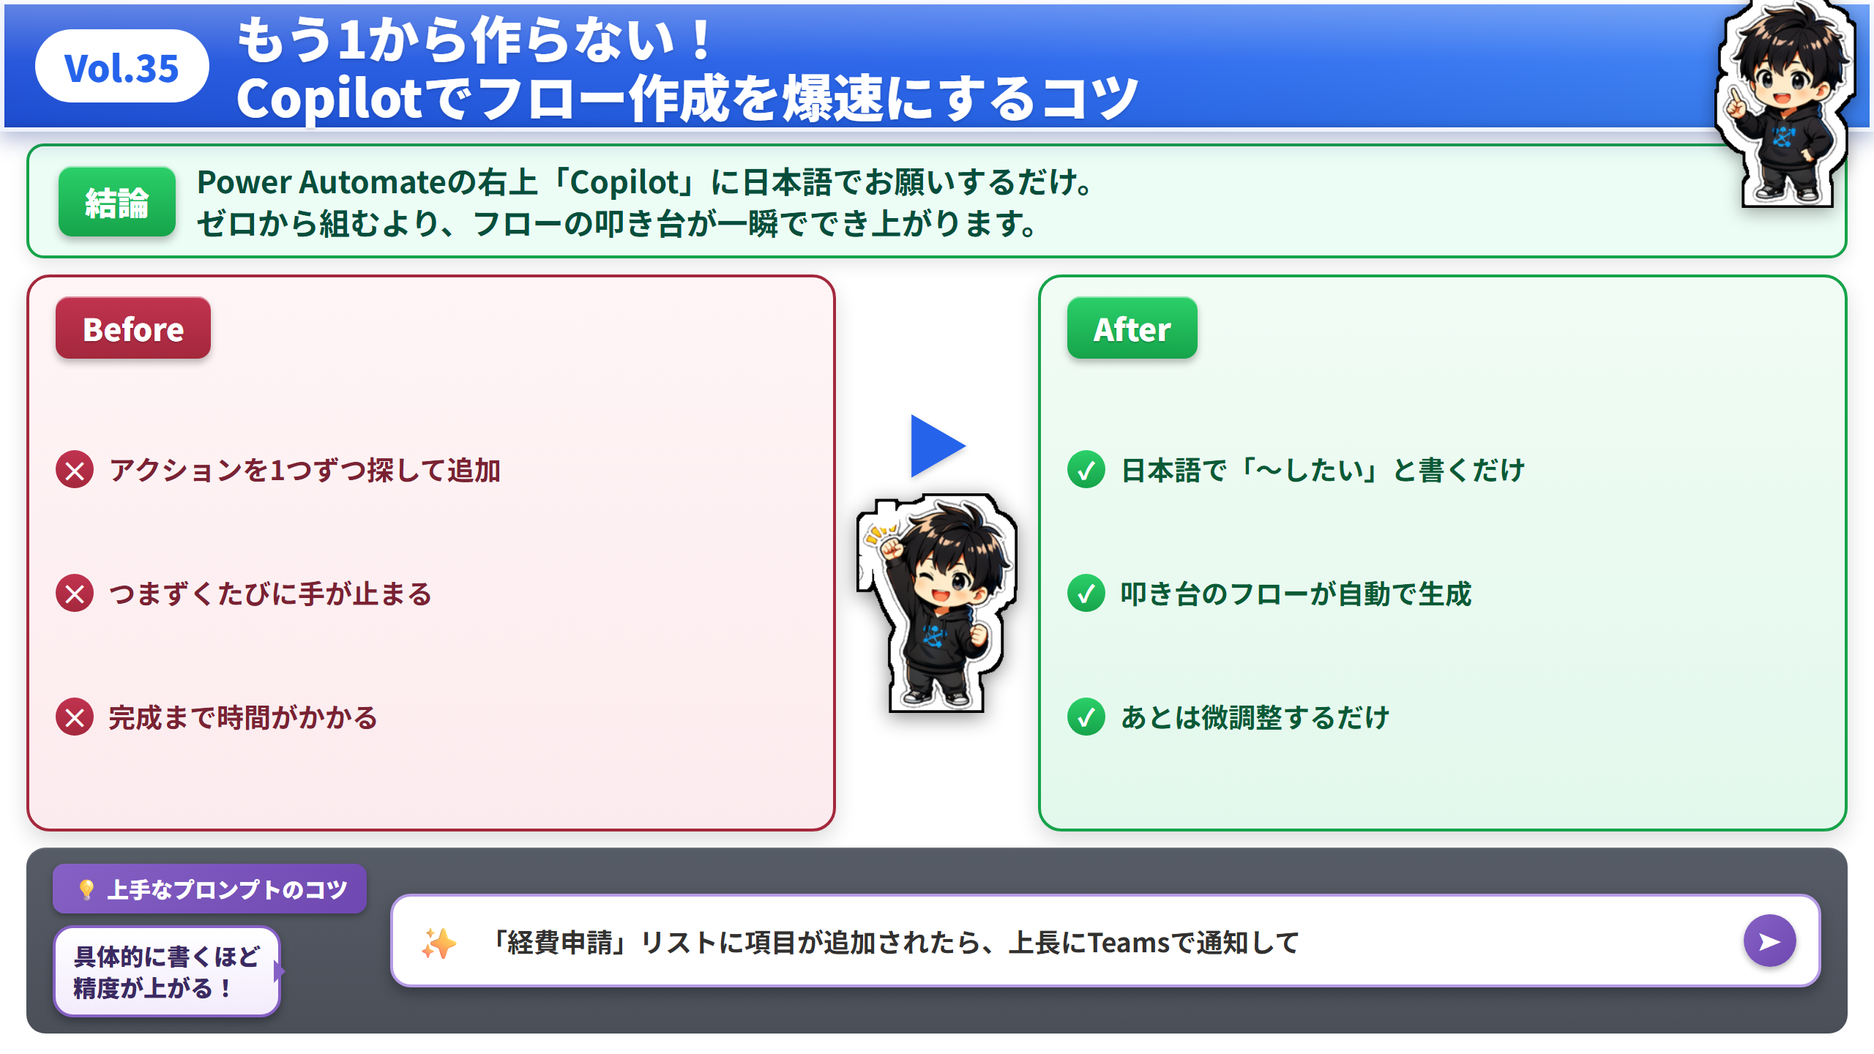
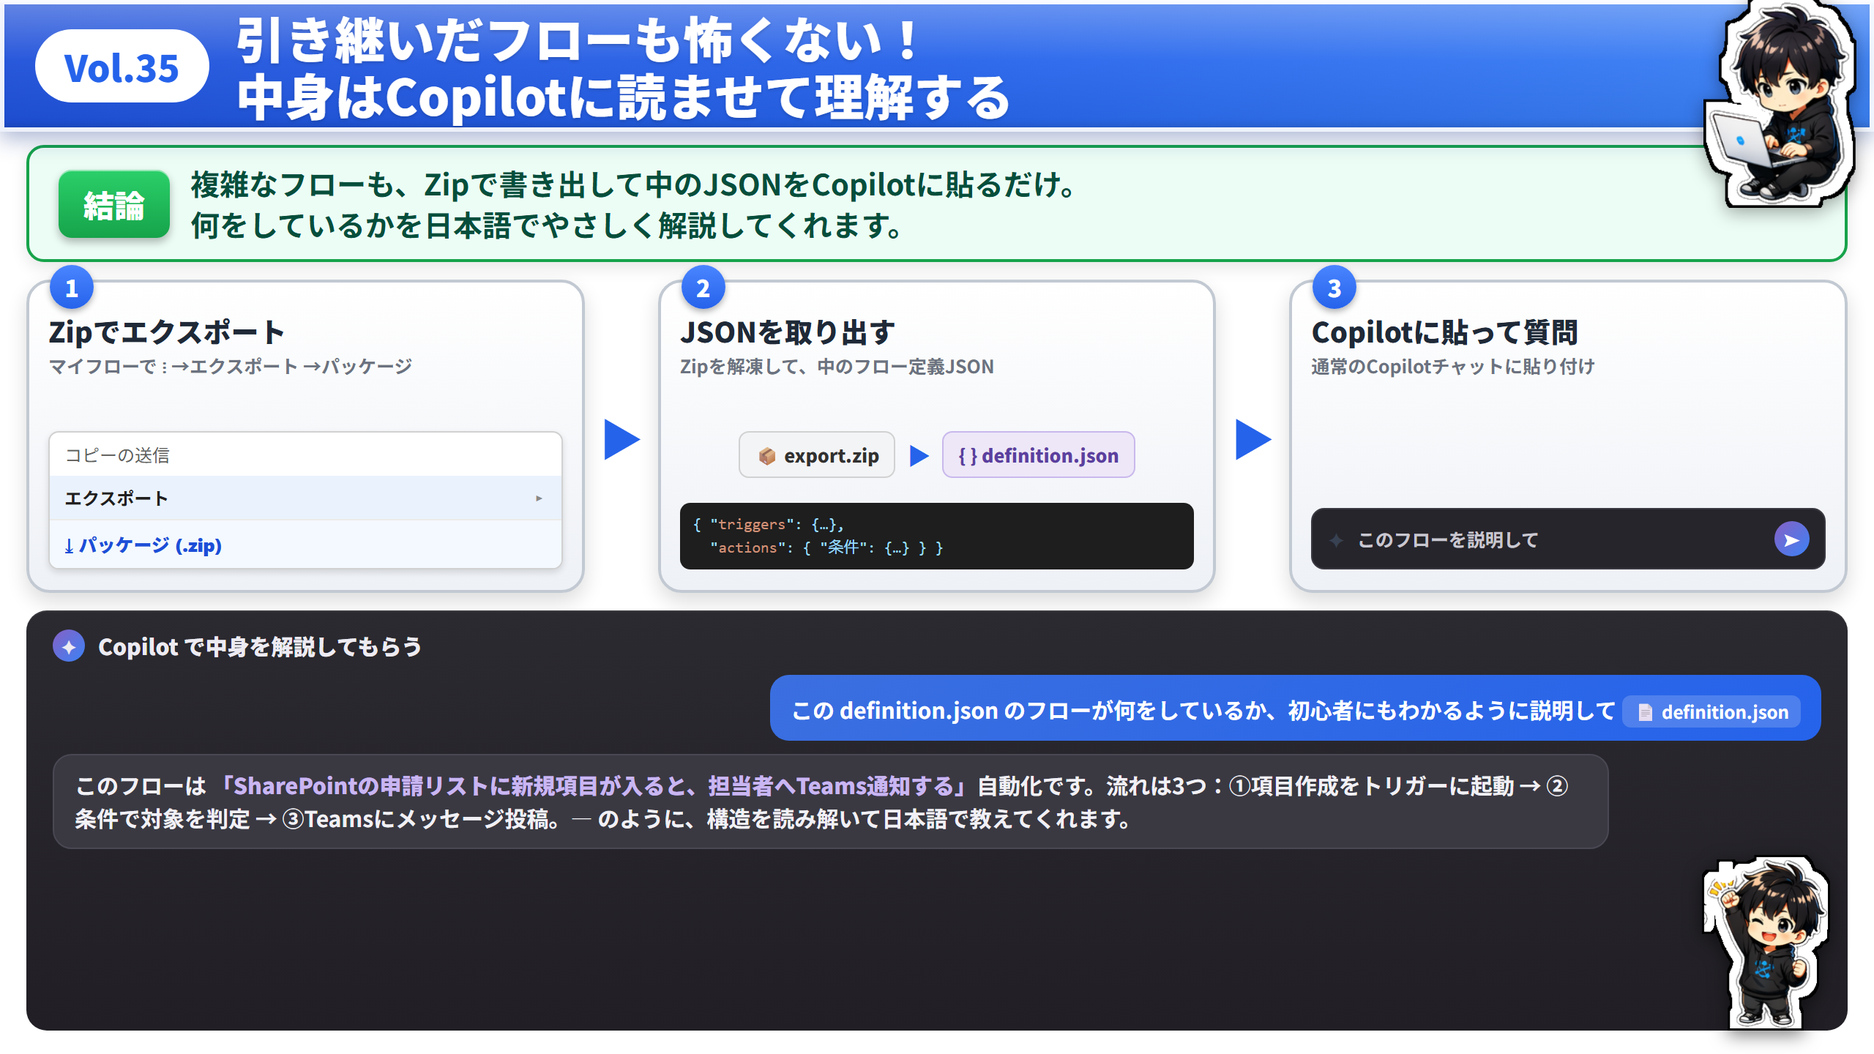
@ Vol.35 改訂: フローの中身をCopilotに解説させる(Zip→JSON→Copilot) ＋ UI部品+2
- vol-35: 手順3ステップ(Zipエクスポート/JSON取得/Copilotに貼る)＋M365 Copilotチャット実画面の再現(definition.json→日本語解説)
- _ui-parts: pa-export-menu / m365-copilot-chat を追加(計23部品)

@

diff --git a/assets/x/html/vol-35/index.html b/assets/x/html/vol-35/index.html
@@ -3,136 +3,130 @@
 <head>
 <meta charset="UTF-8">
 <meta name="viewport" content="width=1280, initial-scale=1">
-<title>X技術Tips HTMLテンプレ（Layout C＝Before/After比較主役）</title>
+<title>Vol.35 Copilotでフローの中身を解説させる</title>
 <link rel="preconnect" href="https://fonts.googleapis.com">
 <link rel="preconnect" href="https://fonts.gstatic.com" crossorigin>
 <link href="https://fonts.googleapis.com/css2?family=Noto+Sans+JP:wght@400;500;700;900&display=swap" rel="stylesheet">
 <style>
-  /* ===== Layout C：Before/After比較が主役・キャラ中央・下に作り方3ステップ（月水金ローテの「金」） ===== */
   :root{
-    --blue:#2563EB; --blue-bg:#EFF6FF; --blue-dark:#1E40AF;
-    --enji:#A4283C; --enji-dark:#6E1628;
-    --green:#16A34A; --green-bg:#ECFDF5; --green-dark:#064E3B;
-    --orange:#EA580C; --ink:#1F2937; --gray:#374151; --weak:#6B7280; --faint:#9CA3AF;
-    --card:#F8F9FA; --line:#E5E7EB;
+    --blue:#2563EB;--blue-bg:#EFF6FF;--green:#16A34A;--green-bg:#ECFDF5;--green-dark:#064E3B;
+    --orange:#EA580C;--ink:#1F2937;--gray:#374151;--weak:#6B7280;--card:#F8F9FA;--line:#E5E7EB;
+    --cop1:#8661C5;--cop2:#3B82F6;
   }
   *{margin:0;padding:0;box-sizing:border-box;}
   body{background:#52555c;display:flex;justify-content:center;align-items:center;min-height:100vh;font-family:"Noto Sans JP",sans-serif;}
   #slide{width:1280px;height:720px;background:#fff;position:relative;overflow:hidden;display:flex;flex-direction:column;color:var(--gray);}
 
-  /* タイトル・結論（ブランド共通） */
   .titlebar{height:90px;background:linear-gradient(180deg,rgba(255,255,255,.32),rgba(255,255,255,.05) 46%,rgba(0,0,0,.06) 100%),linear-gradient(135deg,#1D4ED8 0%,#2563EB 52%,#3B82F6 100%);box-shadow:inset 0 0 0 3px rgba(255,255,255,.92),inset 0 2px 1px rgba(255,255,255,.45),inset 0 -4px 6px rgba(0,0,0,.16),0 5px 14px rgba(30,58,138,.36);display:flex;align-items:center;gap:18px;padding:0 24px;position:relative;flex:0 0 auto;z-index:5;}
   .vol-pill{background:#fff;color:var(--blue);font-weight:900;font-size:25px;border-radius:999px;padding:7px 20px;white-space:nowrap;flex:0 0 auto;}
-  .title-text{color:#fff;font-weight:900;font-size:35px;line-height:1.15;text-shadow:0 1px 2px rgba(0,0,0,.18);padding-right:150px;}
-  .title-chara{position:absolute;right:12px;bottom:-52px;height:148px;z-index:50;filter:drop-shadow(0 3px 6px rgba(0,0,0,.35));}
-  .concl{margin:8px 18px 0;background:var(--green-bg);border:2px solid var(--green);border-radius:12px;display:flex;align-items:center;gap:14px;padding:9px 20px;flex:0 0 auto;box-shadow:0 4px 11px rgba(0,0,0,.10),inset 0 1px 0 rgba(255,255,255,.7);}
-  .concl .chip{background:linear-gradient(180deg,#2BD06A,#16A34A);color:#fff;font-weight:900;font-size:22px;border-radius:9px;padding:8px 18px;white-space:nowrap;box-shadow:0 3px 6px rgba(0,0,0,.28),inset 0 1px 0 rgba(255,255,255,.5);}
-  .concl .txt{font-weight:700;font-size:21px;color:var(--green-dark);line-height:1.35;}
+  .title-text{color:#fff;font-weight:900;font-size:34px;line-height:1.15;text-shadow:0 1px 2px rgba(0,0,0,.18);padding-right:150px;}
+  .title-chara{position:absolute;right:12px;bottom:-52px;height:146px;z-index:50;filter:drop-shadow(0 3px 6px rgba(0,0,0,.35));}
 
-  /* ★ Layout C 主役：Before/After 比較 */
-  .compare{flex:1 1 auto;margin:11px 18px 0;display:flex;align-items:stretch;gap:0;min-height:0;}
-  .panel{flex:1;border-radius:16px;padding:13px 18px;display:flex;flex-direction:column;min-height:0;box-shadow:0 6px 15px rgba(0,0,0,.14),inset 0 1px 0 rgba(255,255,255,.8);}
-  .panel.before{border:2px solid var(--enji);background:linear-gradient(180deg,#FFF5F6,#FCEBEE);}
-  .panel.after{border:2px solid var(--green);background:linear-gradient(180deg,#F1FCF5,#E3F8EC);}
-  .phead{align-self:flex-start;color:#fff;font-weight:900;font-size:21px;border-radius:9px;padding:6px 18px;margin-bottom:12px;box-shadow:0 3px 5px rgba(0,0,0,.25),inset 0 1px 0 rgba(255,255,255,.45);text-shadow:0 1px 1px rgba(0,0,0,.2);}
-  .ph-before{background:linear-gradient(180deg,#C13350,#A4283C);}
-  .ph-after{background:linear-gradient(180deg,#2BD06A,#16A34A);}
-  .plist{display:flex;flex-direction:column;justify-content:space-evenly;flex:1;gap:8px;}
-  .plist li{list-style:none;display:flex;gap:10px;align-items:center;font-weight:700;font-size:18.5px;line-height:1.35;}
-  .panel.before .plist li{color:#7A2233;}
-  .panel.after .plist li{color:#0B5A36;}
-  .plist li .mk{flex:0 0 auto;width:26px;height:26px;border-radius:50%;display:flex;align-items:center;justify-content:center;color:#fff;font-weight:900;font-size:16px;}
-  .panel.before .mk{background:linear-gradient(180deg,#C13350,#A4283C);}
-  .panel.after .mk{background:linear-gradient(180deg,#2BD06A,#16A34A);}
+  .concl{margin:9px 18px 0;background:var(--green-bg);border:2px solid var(--green);border-radius:12px;display:flex;align-items:center;gap:14px;padding:10px 20px;flex:0 0 auto;box-shadow:0 4px 11px rgba(0,0,0,.10),inset 0 1px 0 rgba(255,255,255,.7);}
+  .concl .chip{background:linear-gradient(180deg,#2BD06A,#16A34A);color:#fff;font-weight:900;font-size:21px;border-radius:9px;padding:8px 17px;white-space:nowrap;box-shadow:0 3px 6px rgba(0,0,0,.28),inset 0 1px 0 rgba(255,255,255,.5);}
+  .concl .txt{font-weight:700;font-size:20px;color:var(--green-dark);line-height:1.4;}
 
-  /* 中央＝大矢印＋マスコット */
-  .mid{flex:0 0 138px;display:flex;flex-direction:column;align-items:center;justify-content:center;position:relative;}
-  .mid .bigarrow{color:var(--blue);font-weight:900;font-size:46px;text-shadow:0 2px 4px rgba(0,0,0,.2);margin-bottom:2px;}
-  .mid .cmascot{height:150px;filter:drop-shadow(0 3px 7px rgba(0,0,0,.45));z-index:40;}
+  /* 3ステップ */
+  .steps{flex:0 0 auto;margin:12px 18px 0;display:flex;align-items:stretch;gap:10px;}
+  .stp{flex:1;background:linear-gradient(180deg,#FFFFFF,#EEF1F6);border:2px solid #C2C9D2;border-radius:16px;padding:13px 13px 14px;position:relative;box-shadow:0 6px 14px rgba(0,0,0,.14),inset 0 1px 0 rgba(255,255,255,.95);display:flex;flex-direction:column;}
+  .stp .num{position:absolute;top:-12px;left:14px;width:30px;height:30px;border-radius:50%;background:linear-gradient(180deg,#4A85FF,#2563EB);color:#fff;font-weight:900;font-size:16px;display:flex;align-items:center;justify-content:center;box-shadow:0 2px 4px rgba(0,0,0,.3);}
+  .stp .sname{font-weight:900;font-size:19px;color:var(--ink);margin:6px 0 2px;}
+  .stp .ssub{font-weight:600;font-size:12.5px;color:var(--weak);line-height:1.35;margin-bottom:9px;min-height:34px;}
+  .stp .mini{margin-top:auto;}
+  .sarrow{align-self:center;color:var(--blue);font-weight:900;font-size:30px;flex:0 0 auto;}
 
-  /* 下＝作り方3ステップ（わかりやすさ確保） */
-  .make{flex:0 0 auto;margin:11px 18px 14px;background:linear-gradient(180deg,#565C66,#4A4F58);border-radius:13px;padding:11px 18px;display:flex;align-items:center;gap:16px;box-shadow:inset 0 1px 0 rgba(255,255,255,.1);}
-  .make .mlabel{flex:0 0 auto;color:#F1F5F9;font-weight:900;font-size:17px;}
-  .mflow{flex:1;display:flex;align-items:center;gap:9px;}
-  .mstep{flex:1;background:#fff;border-radius:10px;padding:9px 12px;display:flex;align-items:center;gap:9px;box-shadow:0 2px 5px rgba(0,0,0,.22);}
-  .mstep .mi{flex:0 0 auto;width:34px;height:34px;border-radius:8px;background:var(--blue-bg);display:flex;align-items:center;justify-content:center;font-size:19px;overflow:hidden;}
-  .mstep .mi img{width:25px;height:25px;object-fit:contain;}
-  .mstep .mn{font-weight:900;font-size:15px;color:var(--ink);line-height:1.2;}
-  .marrow{color:#7CB1FF;font-weight:900;font-size:18px;}
-  /* Copilotプロンプト帯 */
-  .cpilot{display:flex;align-items:center;gap:16px;width:100%;}
-  .cp-left{flex:0 0 auto;display:flex;flex-direction:column;gap:8px;align-items:flex-start;max-width:215px;}
-  .cp-tag{background:linear-gradient(135deg,#8661C5,#6E48B0);color:#fff;font-weight:900;font-size:15px;border-radius:8px;padding:6px 13px;white-space:nowrap;box-shadow:0 2px 4px rgba(0,0,0,.3);}
-  .cp-speech{position:relative;background:linear-gradient(180deg,#FFFFFF,#F3EBFC);color:#3B2A63;font-weight:900;font-size:16px;line-height:1.35;border:2px solid #8661C5;border-radius:14px;padding:8px 12px;box-shadow:0 3px 6px rgba(0,0,0,.3);}
-  .cp-speech::after{content:"";position:absolute;right:-13px;top:50%;transform:translateY(-50%);border:8px solid transparent;border-left-color:#8661C5;}
-  .cp-box{flex:1;background:#fff;border:2px solid #B69CE6;border-radius:14px;padding:12px 15px;display:flex;align-items:center;gap:12px;box-shadow:0 4px 9px rgba(0,0,0,.3);}
-  .cp-box .spark{flex:0 0 auto;font-size:24px;}
-  .cp-box .ptxt{flex:1;font-weight:700;font-size:18px;color:#323130;line-height:1.4;}
-  .cp-box .send{flex:0 0 auto;width:36px;height:36px;border-radius:50%;background:linear-gradient(135deg,#8661C5,#6E48B0);color:#fff;display:flex;align-items:center;justify-content:center;font-size:17px;box-shadow:0 2px 4px rgba(0,0,0,.3);}
+  /* mini UI 共通 */
+  .ui{background:#fff;border:1px solid #D1D1D1;border-radius:7px;font-family:'Segoe UI','Noto Sans JP',sans-serif;box-shadow:0 2px 5px rgba(0,0,0,.13);overflow:hidden;}
+  /* メニュー（エクスポート） */
+  .menu .mrow{display:flex;align-items:center;gap:8px;padding:6px 10px;font-size:12px;color:#605E5C;}
+  .menu .mrow.on{background:#EAF2FD;color:#201F1E;font-weight:700;}
+  .menu .mrow .ar{margin-left:auto;color:#8A8886;}
+  .menu .zip{display:flex;align-items:center;gap:7px;padding:7px 10px;border-top:1px solid #EDEBE9;background:#F3F9FF;font-size:12.5px;font-weight:800;color:#1D4ED8;}
+  /* zip→json */
+  .conv{display:flex;align-items:center;gap:8px;justify-content:center;padding:10px 8px;}
+  .conv .pill{background:#F3F4F6;border:1px solid #D1D1D1;border-radius:7px;padding:6px 10px;font-size:12.5px;font-weight:800;color:#323130;}
+  .conv .pill.j{background:#EDE7F8;border-color:#C9B8EC;color:#5B3FA0;}
+  .conv .ar{color:var(--blue);font-weight:900;font-size:16px;}
+  .codebox{margin-top:7px;background:#1E1E1E;border-radius:7px;padding:7px 9px;font-family:Consolas,monospace;font-size:10.5px;line-height:1.5;color:#9CDCFE;}
+  .codebox .k{color:#CE9178;}
+  /* copilot input mini */
+  .cmini{background:#26252B;border:1px solid #3A3942;border-radius:9px;padding:8px 10px;display:flex;align-items:center;gap:8px;}
+  .cmini .spark{font-size:15px;}
+  .cmini .ph{flex:1;font-size:12.5px;color:#C9C7D0;font-weight:600;}
+  .cmini .snd{width:24px;height:24px;border-radius:50%;background:linear-gradient(135deg,var(--cop1),var(--cop2));color:#fff;display:flex;align-items:center;justify-content:center;font-size:12px;}
+
+  /* 下段：Copilotチャット再現 */
+  .chat{flex:1 1 auto;margin:12px 18px 16px;background:linear-gradient(180deg,#2B2A30,#211F25);border-radius:14px;padding:13px 18px;display:flex;flex-direction:column;gap:9px;min-height:0;box-shadow:inset 0 1px 0 rgba(255,255,255,.07);position:relative;}
+  .chat .chead{display:flex;align-items:center;gap:9px;color:#EDEBF2;font-weight:900;font-size:15px;}
+  .chat .chead .logo{width:22px;height:22px;border-radius:50%;background:linear-gradient(135deg,var(--cop1),var(--cop2));display:flex;align-items:center;justify-content:center;font-size:12px;}
+  .bubble{max-width:88%;border-radius:13px;padding:9px 14px;font-size:15px;line-height:1.5;font-weight:600;}
+  .bubble.user{align-self:flex-end;background:linear-gradient(135deg,#3B6FE0,#2563EB);color:#fff;}
+  .bubble.user .att{display:inline-flex;align-items:center;gap:5px;background:rgba(255,255,255,.18);border-radius:6px;padding:2px 8px;font-size:12px;margin-top:5px;}
+  .bubble.ai{align-self:flex-start;background:#3A3942;color:#F1F0F5;border:1px solid #4A4853;}
+  .bubble.ai b{color:#C9B6F2;}
+  .chmascot{position:absolute;right:12px;bottom:0;height:120px;z-index:6;filter:drop-shadow(0 3px 6px rgba(0,0,0,.5));}
 </style>
 </head>
 <body>
-<div id="slide"></div>
-<script>
-const A = "../../pptx/_assets/";
-const SLIDE = {
-  vol: "Vol.35",
-  title: "もう1から作らない！<br>Copilotでフロー作成を爆速にするコツ",
-  titleChara: A+"chara/chara_point.png",
-  conclusion: "Power Automateの右上「Copilot」に日本語でお願いするだけ。<br>ゼロから組むより、フローの叩き台が一瞬ででき上がります。",
-  before: [ "アクションを1つずつ探して追加", "つまずくたびに手が止まる", "完成まで時間がかかる" ],
-  after:  [ "日本語で「〜したい」と書くだけ", "叩き台のフローが自動で生成", "あとは微調整するだけ" ],
-  midChara: A+"chara/chara_guts.png",
-  promptLabel: "上手なプロンプトのコツ",
-  promptSpeech: "具体的に書くほど<br>精度が上がる！",
-  prompt: "「経費申請」リストに項目が追加されたら、上長にTeamsで通知して",
-};
+<div id="slide">
 
-const el=(t,c,h)=>{const e=document.createElement(t);if(c)e.className=c;if(h!=null)e.innerHTML=h;return e;};
-function render(d){
-  const s=document.getElementById("slide");
-  const tb=el("div","titlebar");
-  tb.appendChild(el("div","vol-pill",d.vol));
-  tb.appendChild(el("div","title-text",d.title));
-  if(d.titleChara){const c=el("img","title-chara");c.src=d.titleChara;tb.appendChild(c);}
-  s.appendChild(tb);
-  const cc=el("div","concl");cc.appendChild(el("div","chip","結論"));cc.appendChild(el("div","txt",d.conclusion));s.appendChild(cc);
+  <div class="titlebar">
+    <div class="vol-pill">Vol.35</div>
+    <div class="title-text">引き継いだフローも怖くない！<br>中身はCopilotに読ませて理解する</div>
+    <img class="title-chara" src="../../pptx/_assets/chara/chara_laptop.png" alt="">
+  </div>
 
-  const cmp=el("div","compare");
-  // Before
-  const bp=el("div","panel before");
-  bp.appendChild(el("div","phead ph-before","Before"));
-  const bul=el("ul","plist");
-  d.before.forEach(t=>{const li=el("li");li.appendChild(el("span","mk","✕"));li.appendChild(el("span","",t));bul.appendChild(li);});
-  bp.appendChild(bul);cmp.appendChild(bp);
-  // 中央
-  const mid=el("div","mid");
-  mid.appendChild(el("div","bigarrow","▶"));
-  if(d.midChara){const m=el("img","cmascot");m.src=d.midChara;mid.appendChild(m);}
-  cmp.appendChild(mid);
-  // After
-  const ap=el("div","panel after");
-  ap.appendChild(el("div","phead ph-after","After"));
-  const aul=el("ul","plist");
-  d.after.forEach(t=>{const li=el("li");li.appendChild(el("span","mk","✓"));li.appendChild(el("span","",t));aul.appendChild(li);});
-  ap.appendChild(aul);cmp.appendChild(ap);
-  s.appendChild(cmp);
+  <div class="concl">
+    <div class="chip">結論</div>
+    <div class="txt">複雑なフローも、Zipで書き出して中のJSONをCopilotに貼るだけ。<br>何をしているかを日本語でやさしく解説してくれます。</div>
+  </div>
 
-  // Copilotプロンプト帯（上手な頼み方の実例）
-  const mk=el("div","make");
-  const cp=el("div","cpilot");
-  const cl=el("div","cp-left");
-  cl.appendChild(el("div","cp-tag","💡 "+(d.promptLabel||"プロンプトのコツ")));
-  cl.appendChild(el("div","cp-speech",d.promptSpeech||""));
-  cp.appendChild(cl);
-  const box=el("div","cp-box");
-  box.appendChild(el("span","spark","✨"));
-  box.appendChild(el("div","ptxt",d.prompt));
-  box.appendChild(el("div","send","➤"));
-  cp.appendChild(box);
-  mk.appendChild(cp);s.appendChild(mk);
-}
-render(SLIDE);
-</script>
+  <div class="steps">
+    <!-- 1 -->
+    <div class="stp">
+      <div class="num">1</div>
+      <div class="sname">Zipでエクスポート</div>
+      <div class="ssub">マイフローで ⋮ →エクスポート →パッケージ</div>
+      <div class="mini ui menu">
+        <div class="mrow">コピーの送信</div>
+        <div class="mrow on">エクスポート <span class="ar">▸</span></div>
+        <div class="zip">⤓ パッケージ (.zip)</div>
+      </div>
+    </div>
+    <div class="sarrow">▶</div>
+    <!-- 2 -->
+    <div class="stp">
+      <div class="num">2</div>
+      <div class="sname">JSONを取り出す</div>
+      <div class="ssub">Zipを解凍して、中のフロー定義JSON</div>
+      <div class="mini">
+        <div class="conv"><span class="pill">📦 export.zip</span><span class="ar">▶</span><span class="pill j">{ } definition.json</span></div>
+        <div class="codebox">{ "<span class="k">triggers</span>": {…},<br>&nbsp;&nbsp;"<span class="k">actions</span>": { "条件": {…} } }</div>
+      </div>
+    </div>
+    <div class="sarrow">▶</div>
+    <!-- 3 -->
+    <div class="stp">
+      <div class="num">3</div>
+      <div class="sname">Copilotに貼って質問</div>
+      <div class="ssub">通常のCopilotチャットに貼り付け</div>
+      <div class="mini cmini">
+        <span class="spark">✦</span>
+        <span class="ph">このフローを説明して</span>
+        <span class="snd">➤</span>
+      </div>
+    </div>
+  </div>
+
+  <div class="chat">
+    <div class="chead"><span class="logo">✦</span>Copilot で中身を解説してもらう</div>
+    <div class="bubble user">この definition.json のフローが何をしているか、初心者にもわかるように説明して
+      <span class="att">📄 definition.json</span>
+    </div>
+    <div class="bubble ai">このフローは <b>「SharePointの申請リストに新規項目が入ると、担当者へTeams通知する」</b>自動化です。流れは3つ：①項目作成をトリガーに起動 → ②条件で対象を判定 → ③Teamsにメッセージ投稿。— のように、構造を読み解いて日本語で教えてくれます。</div>
+    <img class="chmascot" src="../../pptx/_assets/chara/chara_guts.png" alt="">
+  </div>
+
+</div>
 </body>
 </html>

diff --git a/assets/x/html/_ui-parts/index.html b/assets/x/html/_ui-parts/index.html
@@ -68,6 +68,20 @@
   .uc2 .fld.op{flex:0 0 auto;display:flex;align-items:center;gap:14px;color:#323130;}
   .uc2 .cv{color:#8A8886;font-size:10px;}
   .uc2 .lim{margin-top:8px;font-size:11.5px;color:#605E5C;}
+  /* エクスポートメニュー */
+  .xmenu{background:#fff;border:1px solid #D1D1D1;border-radius:7px;box-shadow:0 3px 8px rgba(0,0,0,.18);font-family:'Segoe UI','Noto Sans JP',sans-serif;overflow:hidden;max-width:320px;}
+  .xmenu .r{padding:8px 12px;font-size:13px;color:#605E5C;display:flex;align-items:center;gap:8px;}
+  .xmenu .r.on{background:#EAF2FD;color:#201F1E;font-weight:700;}
+  .xmenu .r .ar{margin-left:auto;color:#8A8886;}
+  .xmenu .sub{padding:9px 12px;border-top:1px solid #EDEBE9;background:#F3F9FF;font-size:13px;font-weight:800;color:#1D4ED8;display:flex;align-items:center;gap:7px;}
+  /* M365 Copilotチャット */
+  .copa{background:linear-gradient(180deg,#2B2A30,#211F25);border-radius:12px;padding:14px 16px;color:#EDEBF2;}
+  .copa .ch{display:flex;align-items:center;gap:8px;font-weight:900;font-size:14px;}
+  .copa .ch .lg{width:22px;height:22px;border-radius:50%;background:linear-gradient(135deg,#8661C5,#3B82F6);display:flex;align-items:center;justify-content:center;font-size:12px;}
+  .copa .greet{text-align:center;font-size:16px;font-weight:700;margin:18px 0 14px;color:#EDEBF2;}
+  .copa .inp{background:#26252B;border:1px solid #3A3942;border-radius:10px;padding:10px 12px;display:flex;align-items:center;gap:9px;}
+  .copa .inp .ph{flex:1;color:#9C9AA6;font-size:13px;}
+  .copa .inp .snd{width:26px;height:26px;border-radius:50%;background:linear-gradient(135deg,#8661C5,#3B82F6);display:flex;align-items:center;justify-content:center;font-size:13px;}
 </style>
 </head>
 <body>
@@ -348,6 +362,36 @@
       <div class="up-tabs"><span class="on">パラメーター</span><span>設定</span><span>コード ビュー</span><span>詳細</span></div>
       <div class="up-row"><div class="up-lbl">Team <span class="rq">*</span></div><div class="up-ctl dd"><span>チームを選択します</span><span class="cv">▼</span></div></div>
       <div class="up-row"><div class="up-lbl">Channel <span class="rq">*</span></div><div class="up-ctl dd"><span>チャネルを選択します</span><span class="cv">▼</span></div></div>
+    </div>
+  </div>
+
+  <p class="secthead">━ その他（フロー解読系）━</p>
+
+  <!-- エクスポートメニュー -->
+  <div class="card">
+    <p class="cap">Power Automate ＞ エクスポート（パッケージ .zip）</p>
+    <p class="cid">mock: pa-export-menu</p>
+    <div class="up" style="background:transparent;box-shadow:none;padding:6px;">
+      <div class="xmenu">
+        <div class="r">コピーの送信</div>
+        <div class="r on">エクスポート <span class="ar">▸</span></div>
+        <div class="sub">⤓ パッケージ (.zip)</div>
+        <div class="r">実行履歴</div>
+        <div class="r">削除</div>
+      </div>
+    </div>
+  </div>
+
+  <!-- M365 Copilotチャット -->
+  <div class="card">
+    <p class="cap">Microsoft 365 Copilot ＞ チャット</p>
+    <p class="cid">mock: m365-copilot-chat</p>
+    <div class="up" style="background:transparent;box-shadow:none;padding:6px;">
+      <div class="copa">
+        <div class="ch"><span class="lg">✦</span>Copilot</div>
+        <div class="greet">何かお手伝いできることはありますか?</div>
+        <div class="inp"><span>＋</span><span class="ph">Copilot にメッセージを送信する</span><span class="snd">➤</span></div>
+      </div>
     </div>
   </div>
 
